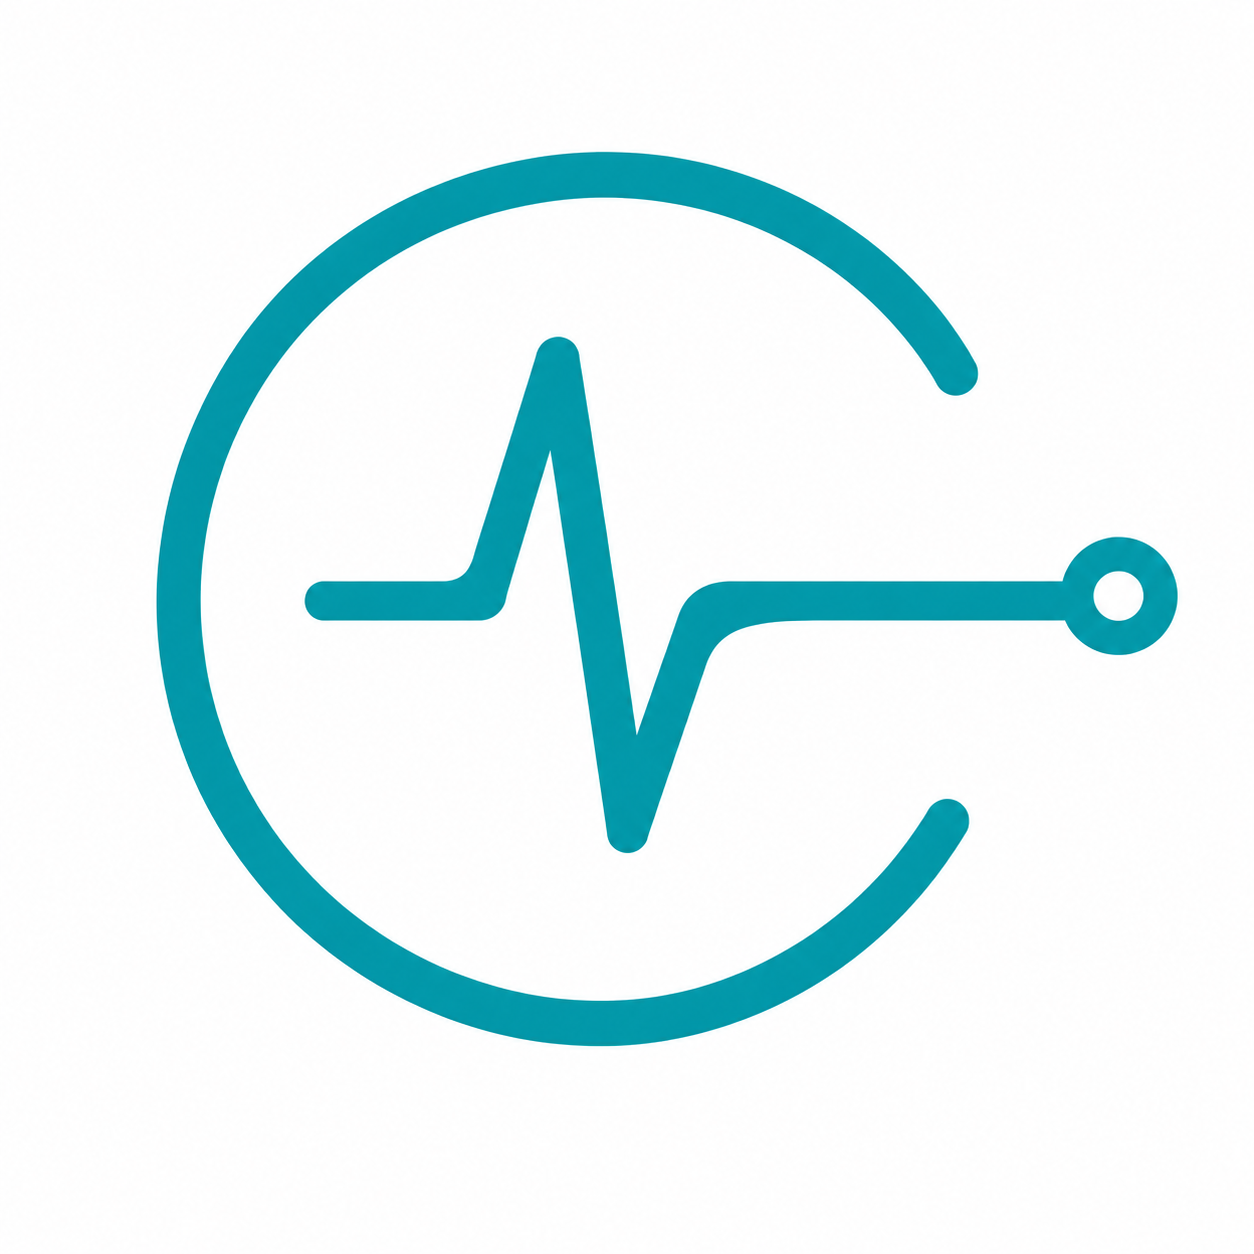
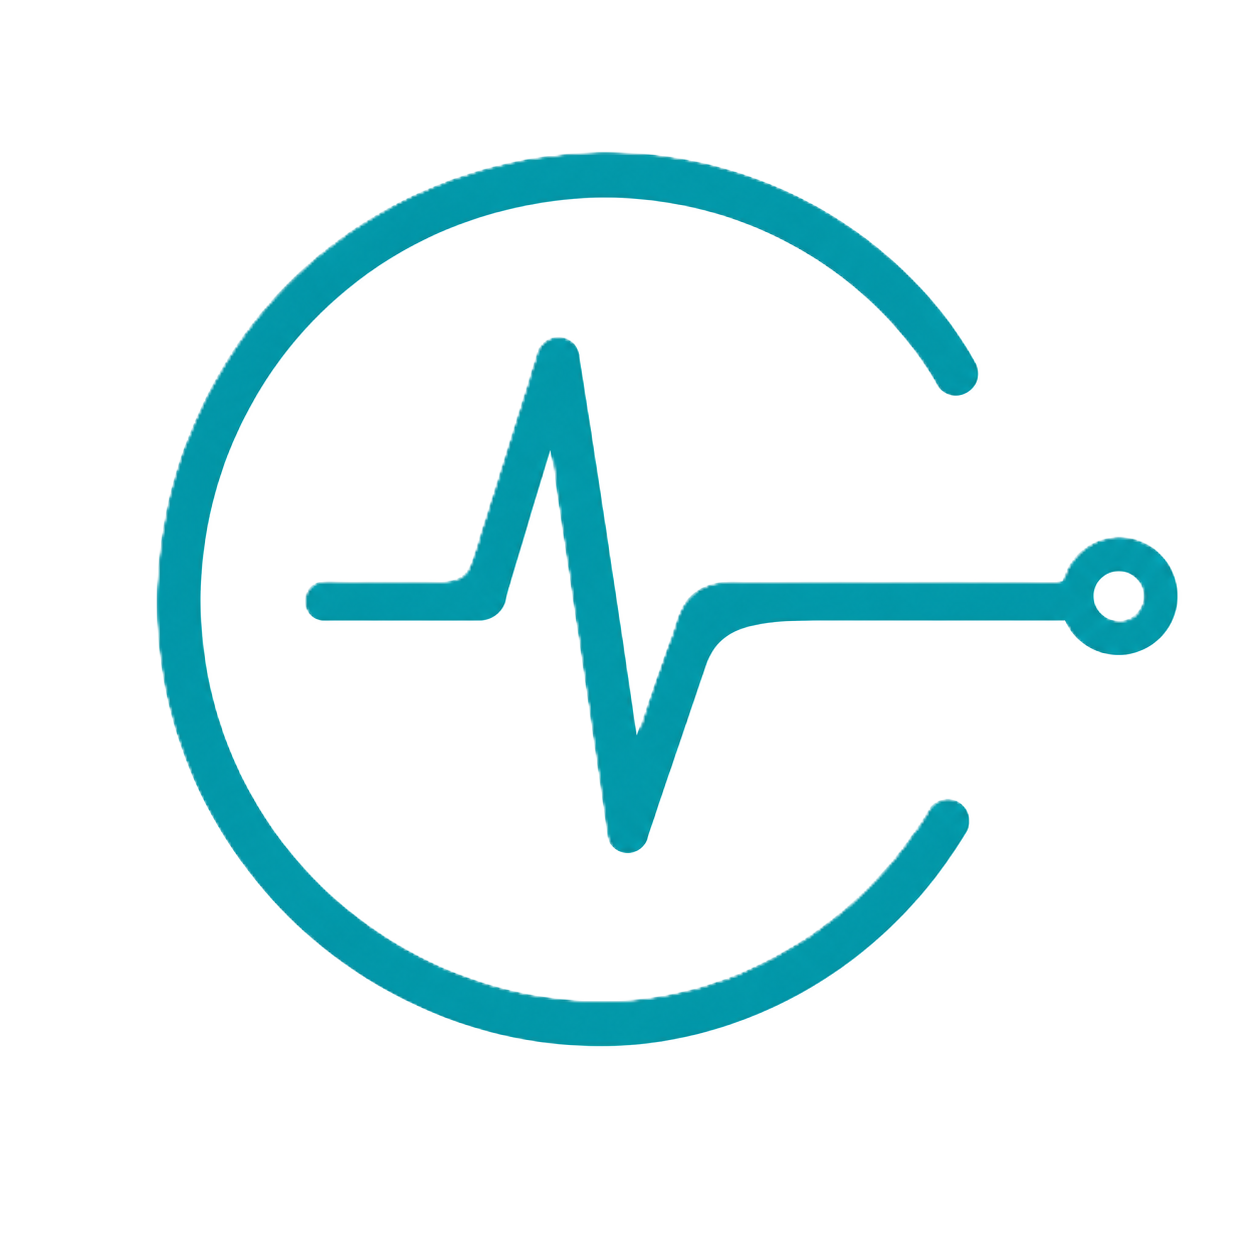
Estrutura das paginas Home e Sobre Nós (fontes de imagens)

diff --git a/assets/css/1241677.css b/assets/css/1241677.css
@@ -128,6 +128,151 @@ section {
     min-height: 85vh; /* Garante uma altura mínima para a janela - seção, mesmo com pouco conteúdo */
 } 
 
+/* Seção "Home" */ 
+#home { 
+    text-align: center;           /* Centra todo o conteúdo horizontalmente */ 
+    padding: 60px 0;             /* Espaçamento superior e inferior de 60px */ 
+} 
+ 
+.home-content { 
+    max-width: 1500px;           /* Largura máxima de 1500px para limitar o conteúdo */ 
+    margin: 0 auto;            /* Centra horizontalmente o conteúdo */ 
+} 
+ 
+.home-content h2 { 
+    font-size: 2em;             /* Tamanho grande para o título principal */ 
+    margin-bottom: 30px;        /* Espaçamento abaixo do título */ 
+    font-weight: 500;           /* Deixa o título mais forte para destacar */
+    color:#0096a6; /* Cor do título */
+} 
+ 
+.home-content p { 
+    font-size: 1.0em;            /* Define o tamanho da letra do parágrafo */ 
+    margin-bottom: 30px;         /* Espaço abaixo do parágrafo */ 
+    color: #343a40;             /* Cor do texto do parágrafo */
+    line-height: 1.3;           /* Espaço entre as linhas do parágrafo */
+    padding: 0 120px; /* Adiciona espaçamento lateral para melhor leitura */
+} 
+
+.home-content img { 
+    width: 100%;          /* Define uma largura do ecrã/responsiva da imagem */ 
+    height: 465px;         /* Define uma altura fixa da imagem */ 
+    display: block;        /* Faz com que a imagem se comporte como bloco (para usar margin auto) */ 
+    margin: 20px auto;     /* Centraliza a imagem com margens acima e abaixo */ 
+    object-fit: cover;     /* Corta a imagem de forma proporcional sem distorcer */ 
+} 
+ 
+.button { 
+    display: inline-block;       /* Permite definir largura/altura e manter como botão em linha */ 
+    background-color: #0095a6d8;   /* Cor de fundo azul */ 
+    color: #fff;                 /* Cor do texto branca */ 
+    padding: 10px 60px;          /* Espaçamento interno (vertical x horizontal) */ 
+    text-decoration: none;       /* Remove o sublinhado do link */ 
+    border-radius: 15px;          /* Bordas arredondadas no botão */ 
+    font-weight: 500;            /* Texto ligeiramente mais forte para destacar a ação */
+    transition: background-color 0.2s ease; /* Transição suave para o efeito hover */
+}
+.button:hover { 
+    background-color: #4dbcc9; /* Fundo mais claro ao passar o rato */; 
+}
+
+
+/* Seção "Sobre-Nós" */
+#sobre-nos {
+    display: flex;
+    flex-wrap: wrap; /* Em ecrãs pequenos o bloco e os cards passam para linhas separadas */
+    gap: 40px;
+    padding: 60px 80px; 
+    align-items: center; /* Alinha os itens verticalmente ao centro */
+    min-height: auto; /* adpta a altura do conteúdo */
+}
+
+/* Estilo para o bloco Sobre Nós à esquerda */
+.sobre-nos-titulo {
+    flex: 1; /* Faz com que o bloco ocupe metade da largura disponível */
+    background-color: #0096a6; 
+    padding: 100px 40px;
+    border-radius: 10px;
+    align-self: center; /* Alinha o bloco verticalmente ao centro em relação ao conjunto de cards à direita*/
+}
+
+/* Estilo para o título do bloco Sobre Nós */
+.sobre-nos-titulo h2 {
+    font-size: 2em;
+    margin-bottom: 50px;
+    color: white;
+    font-weight: 500;  /* Negrito */
+}
+
+/* Estilo para o parágrafo do bloco Sobre Nós */
+.sobre-nos-titulo p {
+    font-size: 1em;
+    line-height: 1.6;
+    color: white;
+    text-align: justify; /* Justifica o texto */
+}
+
+/* Estilo para o conjunto de cards à direita */
+.sobre-nos-cards {
+    flex: 1; /* Faz com que o conjunto de cards ocupe metade da largura disponível */
+    display: flex; /* Ativa o layout flexível para os cards */
+    flex-direction: column; /* Organiza os cards em coluna verticalmente */
+    gap: 20px; /* Adiciona espaço entre os cards */
+}
+
+/* Estilo individual de cada card */
+.sobre-card {
+    display: flex; /* Ativa o layout flexível para o card */
+    align-items: center; 
+    gap: 20px;
+    background-color: #f8f9fa;
+    border-radius: 10px;
+    padding: 20px;
+    border: 1px solid #e0e0e0;
+}
+
+/* Estilo para a imagem de cada card */
+.sobre-card img {
+    width: 180px; 
+    height: 180px; 
+    object-fit: cover; /* Corta a imagem de forma proporcional sem distorcer */
+    border-radius: 8px;
+    order: -1; /* move a imagem para a esquerda do texto */
+}
+
+/* Estilo para o bloco de texto dentro de cada card */
+.sobre-card-texto {
+    flex: 1; /* Faz com que o texto ocupe o espaço restante do card, deixando espaço para a imagem */
+}
+
+/* Estilo para o título de cada card */
+.sobre-card-texto h3 {
+    font-size: 1.2em;
+    margin-bottom: 10px;
+    color: #0096a6;
+}
+
+/* Estilo para o parágrafo de cada card */
+.sobre-card-texto p {
+    font-size: 0.95em;
+    color: #343a40;
+    line-height: 1.5;
+    text-align: justify; /* Justifica o texto */
+}
+
+
+
+
+
+
+
+
+
+
+
+
+
+
 /* Texto Genérico - Funcionalidades em duas colunas */
 .container-funcionalidades {
     display: flex;

diff --git a/Área Pública/index.html b/Área Pública/index.html
@@ -21,7 +21,9 @@
     <nav class="bng-navbar">
         <!-- Logo e nome da empresa -->
         <div>
-            <img src="../assets/images/Logo1.png" alt="Logo da empresa">
+            <a href="#home">
+                <img src="../assets/images/Logo1.png" alt="Logo da empresa">
+            </a>
             <!--<h3>EquipFlow | Clinical Systems</h3>-->
         </div>
 
@@ -43,34 +45,51 @@
     <!-- Seção "Conteudo da pagina" --> 
     <!--Secção "Home"-->
     <section class="container-texto-generico" id="home">
-        <article id="home">
-            <h2>Bem-vindo à EquipFlow</h2>
-            <p>Na EquipFlow, transformamos a gestão de equipamentos clínicos. Com a nossa plataforma inovadora, oferecemos soluções inteligentes para otimizar o fluxo de trabalho, melhorar a eficiência e garantir a segurança dos pacientes. Junte-se a nós nesta jornada rumo a um futuro mais conectado e eficiente na área da saúde.</p>
-        </article>
+        <div class="home-content">
+            <h2>Gestão de Equipamentos Clínicos</h2>
+            <img src="../assets/images/Home.png" alt="Imagem de Equipamentos Clínicos">
+            <p>Na EquipFlow, transformamos a gestão de equipamentos clínicos. Com a nossa plataforma inovadora, oferecemos soluções inteligentes para otimizar o fluxo de trabalho, melhorar a eficiência e garantir a segurança dos pacientes.</p>
+            <p>Junte-se a nós nesta jornada rumo a um futuro mais conectado e eficiente na área da saúde.</p>
+            <a href="#demo" class="button">Solicitar Demo</a>
+        </div>
     </section>
 
     <!--Secção "Sobre Nós" -->
-    <section class="container-texto-generico" id="sobre-nos">
-        <article id="sobre-nos">
+    <section class="sobre-nos-container" id="sobre-nos"> 
+        <div class="sobre-nos-titulo"> 
             <h2>Sobre Nós</h2>
             <p>A EquipFlow é uma empresa dedicada à gestão, manutenção e monitorização de equipamentos hospitalares. Fundada por uma equipa de profissionais especializados na área da saúde e tecnologia, trabalhamos lado a lado com instituições de saúde para garantir a fiabilidade dos equipamentos, a segurança dos profissionais e a continuidade dos cuidados ao cliente.</p>
-        </article>
+        </div> 
 
-        <article id="sobre-nos">
-            <h2>Visão</h2>
-            <p>Ser referência nacional na gestão de equipamentos hospitalares, contribuindo para um sistema de saúde mais eficiente e seguro.</p>
-        </article>
+        <div class="sobre-nos-cards">
+            <div class="sobre-card">
+                <div class="sobre-card-texto">
+                    <h3>Visão</h3>
+                    <p>Ser referência nacional na gestão de equipamentos hospitalares, contribuindo para um sistema de saúde mais eficiente e seguro.</p>
+                </div>
+                <img src="https://picsum.photos/id/1048/300" alt="Visão"> 
+            </div>
 
-        <article id="sobre-nos">
-            <h2>Missão</h2>
-            <p>Garantir o funcionamento contínuo e seguro dos equipamentos médicos, através de uma gestão rigorosa e de um serviço técnico de excelência.</p>
-        </article>
+            <div class="sobre-card">
+                <div class="sobre-card-texto">
+                    <h3>Missão</h3>
+                    <p>Garantir o funcionamento contínuo e seguro dos equipamentos médicos, através de uma gestão rigorosa e de um serviço técnico de excelência.</p>
+                </div>
+                <img src="../assets/images/missão.avif" alt="Missão"> 
+            </div>
 
-        <article id="sobre-nos">
-            <h2>Valores</h2>
-            <p>Rigor, responsabilidade, inovação e compromisso com a saúde das pessoas.</p>
-        </article>
+            <div class="sobre-card">
+                <div class="sobre-card-texto">
+                    <h3>Valores</h3>
+                    <p>Rigor, responsabilidade, inovação e compromisso com a saúde das pessoas.</p>
+                </div>
+                <img src="../assets/images/Valores.jpg" alt="Valores">
+            </div>
+        </div>
     </section>
+
+
+
 
      <!--Secção "Conteudo da pagina - Serviços" -->
     <section class="container-texto-generico" id="servicos">

diff --git a/assets/css/1241677_privado.css b/assets/css/1241677_privado.css
@@ -17,7 +17,7 @@ section {
     display: flex;                    /* Organiza os elementos na horizontal */ 
     align-items: center;             /* Alinha os elementos verticalmente ao centro */ 
     justify-content: space-between; /* Espaço entre o logótipo e o botão */ 
-    padding: 15px 50px;              /* Espaçamento interno */ 
+    padding: 10px 50px;              /* Espaçamento interno */ 
     position: sticky;                /* Fixa a barra no topo ao fazer scroll */ 
     top: 0;                          /* Alinha ao topo da janela */ 
     border-bottom: 1px solid #0096a6; /* Linha inferior da barra*/ 
@@ -70,7 +70,7 @@ section {
     border-radius: 5px;            /* Cantos arredondados */ 
     transition: background 0.3s;   /* Animação ao passar o rato */ 
 } 
- 
+
 .sidebar a:hover { 
     background-color: rgba(255, 255, 255, 0.2); /* Fundo mais claro ao passar o rato */; 
 }
@@ -80,5 +80,5 @@ section {
     margin-left: 230px;     /* Afasta o conteúdo da sidebar (largura da sidebar) */ 
     margin-top: 60px;       /* Espaço para não ficar por baixo da navbar */ 
     flex-grow: 1;           /* Permite que o conteúdo cresça conforme o espaço disponível */ 
-    padding: 5px 70px;          /* Espaçamento interno para melhor leitura */ 
+    padding: 10px 70px;          /* Espaçamento interno para melhor leitura */ 
 }

diff --git a/Área Privada/dashboard.html b/Área Privada/dashboard.html
@@ -16,7 +16,9 @@
 <header class="bng-navbar">
     <!-- Logo e nome da empresa -->
     <div>
-        <img src="../assets/images/Logo1.png" alt="Logo da empresa">
+        <a href="dashboard.html">
+            <img src="../assets/images/Logo1.png" alt="Logo da empresa">
+        </a>
         <!--<h3>EquipFlow | Clinical Systems</h3>-->
     </div>
     <div>